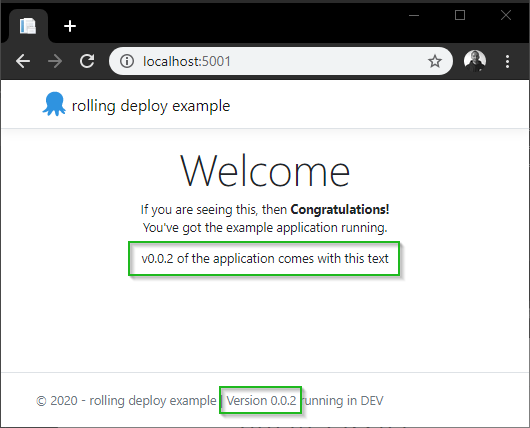
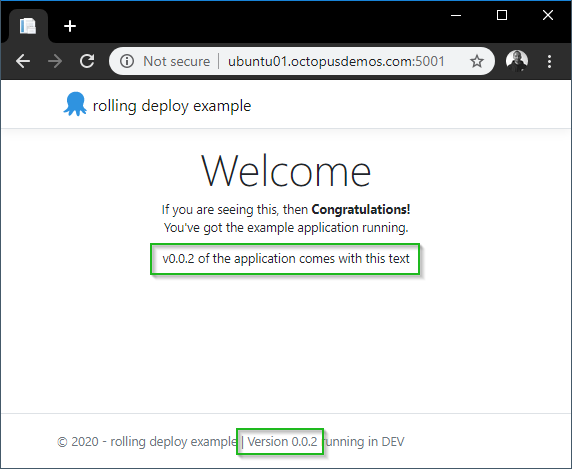
Review Edits continued

diff --git a/blog/2020-01/ultimate-guide-to-rolling-deployments/index.md b/blog/2020-01/ultimate-guide-to-rolling-deployments/index.md
@@ -119,41 +119,54 @@ Service's support a number of different options, including a rolling update poli
 
 #### Docker containerised application
 
-I'm using a pre-built container image of our sample application and utilizng [Docker Desktop](https://docs.docker.com/docker-for-windows/install) for Windows. For the sake of simplicity, I am running it predominantly from the command line manually. But there are production-ready setups to automate this, which feature the definition of your services in a [Docker Compose](https://docs.docker.com/compose/compose-file/) file, including sections to control automatic updates and rollback settings.
+I'm running Docker on an [Ubuntu](https://ubuntu.com/download/server) server and using our pre-built container image. There are a couple of ways to install Docker on Ubuntu:
 
-:::hint
-I don't go through how to build a container image in this post. If you are new to Docker, my colleague Shawn has written an excellent series on how to containerize a [real world application](https://octopus.com/blog/containerize-a-real-world-web-app), instead of a Hello world one.
+1. Use the Ubuntu repository by running: `sudo apt-get install docker.io`
+1. Using the Official [Docker guide](https://docs.docker.com/install/linux/docker-ce/ubuntu/#install-docker-engine---community)
+
+I opted for the Ubuntu repository as it seemed quicker and easier, but your mileage may vary. Whichever method you choose, it's worth ensuring you meet the installation [prerequisites](https://docs.docker.com/install/linux/docker-ce/ubuntu/#prerequisites).
+
+For the sake of simplicity, I will be interacting with Docker from the command line using an SSH connection to my Linux box. But there are production-ready setups to automate this, which feature the definition of your services in a [Docker Compose](https://docs.docker.com/compose/compose-file/) file, including sections to control automatic updates and rollback settings. 
+
+:::warning
+**Permissions requirement:**
+Most of the commands in this demonstration make use of [sudo](https://www.linux.com/tutorials/linux-101-introduction-sudo/). By default the Docker daemon runs as the root user, and therefore it requires elevated permissions to execute commands. If you prefer not to use `sudo` when executing your commands, be sure to follow the Docker [post-install](https://docs.docker.com/install/linux/linux-postinstall/) instructions.
 :::
 
 Firstly, to see the Docker image of this running standalone, we'll run it locally with the following command:
 
-```
-docker run -p 5001:5001 octopusdeploy/rolling-deploy-web-example:0.0.1
+```bash
+sudo docker run -d -p 5001:5001 octopusdeploy/rolling-deploy-web-example:0.0.1
 ```
 
 Unsurprisingly, running this Docker image locally displays the web page:
 
 ![](docker-run.png "width=500")
 
+:::hint
+I don't go through how to build a container image in this post. If you are new to Docker, my colleague Shawn has written an excellent series on how to containerize a [real world application](https://octopus.com/blog/containerize-a-real-world-web-app), instead of a "Hello World" one.
+:::
+
 **Container clean-up**
 
-A quick-tidy up is needed next. To delete the container we created using the `run` command above, we need to stop it, and then remove it using the `rm` command:
+A quick-tidy up is needed next. To delete the container we created using the `run` command above, we need to stop it, and then remove it using the `rm` command. We can do this in a handy one-liner:
 
+```bash
+sudo docker rm $(sudo docker stop $(sudo docker ps -a -q --filter ancestor=octopusdeploy/rolling-deploy-web-example:0.0.1 --format="{{.ID}}"))
 ```
-docker rm $(docker stop $(docker ps -a -q --filter ancestor=octopusdeploy/rolling-deploy-web-example:0.0.1 --format="{{.ID}}"))
-```
+The command above simply locates our container by image name of `octopusdeploy/rolling-deploy-web-example:0.0.1` and then passes that to the `stop` command, and finally passes that to the `rm` command.
 
 To deploy more than one instance of our container, we need to create our Docker service. This uses [Docker Swarm](https://docs.docker.com/engine/swarm) as its orchestrator under the hood.
 
-:::warning
+:::hint
 **Docker Kubernetes Orchestrator**
 Docker also supports Kubernetes as an orchestator when deploying containers using the Docker [stack](https://docs.docker.com/engine/reference/commandline/stack) command, but it's not possible to specify the orchestrator when using `service create`.
 :::
 
 So let's see what our command to create a service looks like:
 
-```
-docker service create --name rolling-deploy-svc --replicas 3 --publish published=5001,target=5001 --update-delay 10s --update-parallelism 1 octopusdeploy/rolling-deploy-web-example:0.0.1
+```bash
+sudo docker service create --name rolling-deploy-svc --replicas 3 --publish published=5001,target=5001 --update-delay 10s --update-parallelism 1 octopusdeploy/rolling-deploy-web-example:0.0.1
 ```
 
 There's quite a lot going on in that command, so let's unpick what we are asking of Docker here:
@@ -164,9 +177,11 @@ There's quite a lot going on in that command, so let's unpick what we are asking
 - The `--update-parallelism` controls the maximum number of tasks that Docker will schedule simultaneously (1).
 - Lastly, we specify the image to use: `octopusdeploy/rolling-deploy-web-example:0.0.1`
 
-:::hint
-**Hint**
-When running ``service create`` for the first time, you may receive a warning, just as I did: `This node is not a swarm manager`. To fix this, either run `docker swarm init` or `docker swarm join` to connect your local node to swarm.
+:::warning
+**Hint:**
+When running ``service create`` for the first time, you may receive a warning, just as I did: `This node is not a swarm manager`. To fix this, either run:
+ - `sudo docker swarm init` - This will initialise your current node as a Swarm manager.
+ - `sudo docker swarm join` - This will connect your local node to swarm.
 :::
 
 Executing this results in our service being deployed to Docker Swarm with 3 instances:
@@ -182,14 +197,14 @@ verify: Service converged
 
 We can also check our service has the correct update configuration by running the command:
 
-```
-docker service inspect rolling-deploy-svc --pretty
+```bash
+sudo docker service inspect rolling-deploy-svc --pretty
 ```
 
 The result of this shows we have our desired `UpdateConfig` 
 
 ```
-ID:             wxi1w4m7crknaz1f800kr9ztt
+ID:             bh03s0yjzkevzkkwvu8q2h0jj
 Name:           rolling-deploy-svc
 Service Mode:   Replicated
  Replicas:      3
@@ -223,8 +238,8 @@ Ports:
 
 Now we can update the container image for `octopusdeploy/rolling-deploy-web-example` to `v0.0.2` by running the following command:
 
-```
-docker service update rolling-deploy-svc --image octopusdeploy/rolling-deploy-web-example:0.0.2
+```bash
+sudo docker service update rolling-deploy-svc --image octopusdeploy/rolling-deploy-web-example:0.0.2
 ```
 
 Docker runs the update to each container, 1 task at a time just as we have configured it to:
@@ -263,16 +278,16 @@ Then browsing to the website shows the text which applies for `v0.0.2`
 
 Just as it's straight-forward to roll-out, it's also possible to manually rollback with a simple command in Docker.
 
-Firstly we will update to `v0.0.3` of the application by running:
+Firstly we will update to our final version `v0.0.3` of the application by running:
 
-```
-docker service update rolling-deploy-svc --image octopusdeploy/rolling-deploy-web-example:0.0.3
+```bash
+sudo docker service update rolling-deploy-svc --image octopusdeploy/rolling-deploy-web-example:0.0.3
 ```
 
 We can verify the new `v0.0.3` version by checking the image used for our service:
 
-```
-docker service inspect --format='{{.Spec.TaskTemplate.ContainerSpec.Image}}' rolling-deploy-svc
+```bash
+sudo docker service inspect --format='{{.Spec.TaskTemplate.ContainerSpec.Image}}' rolling-deploy-svc
 ```
 
 This produces the result: 
@@ -281,10 +296,10 @@ This produces the result:
 octopusdeploy/rolling-deploy-web-example:0.0.3@sha256:151a8f2aaed0192bf9f22eaeff487d546e6ff8fec4d0691e6697dede743b187c
 ```
 
-Because Docker Swarm knows the previous versions we have deployed, we can revert to the last version using the `rollback` command:
+Because Docker Swarm knows the versions we have deployed, we can revert to the previous one (`v0.0.2`) using the `rollback` command:
 
-```
-docker service rollback rolling-deploy-svc
+```bash
+sudo docker service rollback rolling-deploy-svc
 ```
 
 Once successfully rolled back, it will confirm the service is running:
@@ -311,8 +326,8 @@ verify: Service converged
 
 We can verify the rollback was successful using the same command to inspect the service as before: 
 
-```
-docker service inspect --format='{{.Spec.TaskTemplate.ContainerSpec.Image}}' rolling-deploy-svc
+```bash
+sudo docker service inspect --format='{{.Spec.TaskTemplate.ContainerSpec.Image}}' rolling-deploy-svc
 ```
 This results in the expected `v0.0.2` version being displayed: 
 
@@ -325,12 +340,12 @@ octopusdeploy/rolling-deploy-web-example:0.0.2@sha256:4843a91ba84ace97cb11a6e3f6
 Finally to remove our Docker service we just run the `rm` command:
 
 ```
-docker service rm rolling-deploy-svc
+sudo docker service rm rolling-deploy-svc
 ```
 
 #### Docker Summary
 
-As you can see, it doesn't take much setup to get rolling deployments working in Docker. Coupled with support for rollbacks also makes it an attractive option to consider.
+As you can see, it doesn't take much setup to get rolling deployments working in Docker. Coupled with it's support for rollbacks also makes it an attractive option to consider.
 
 ### Kubernetes Rolling updates
 
